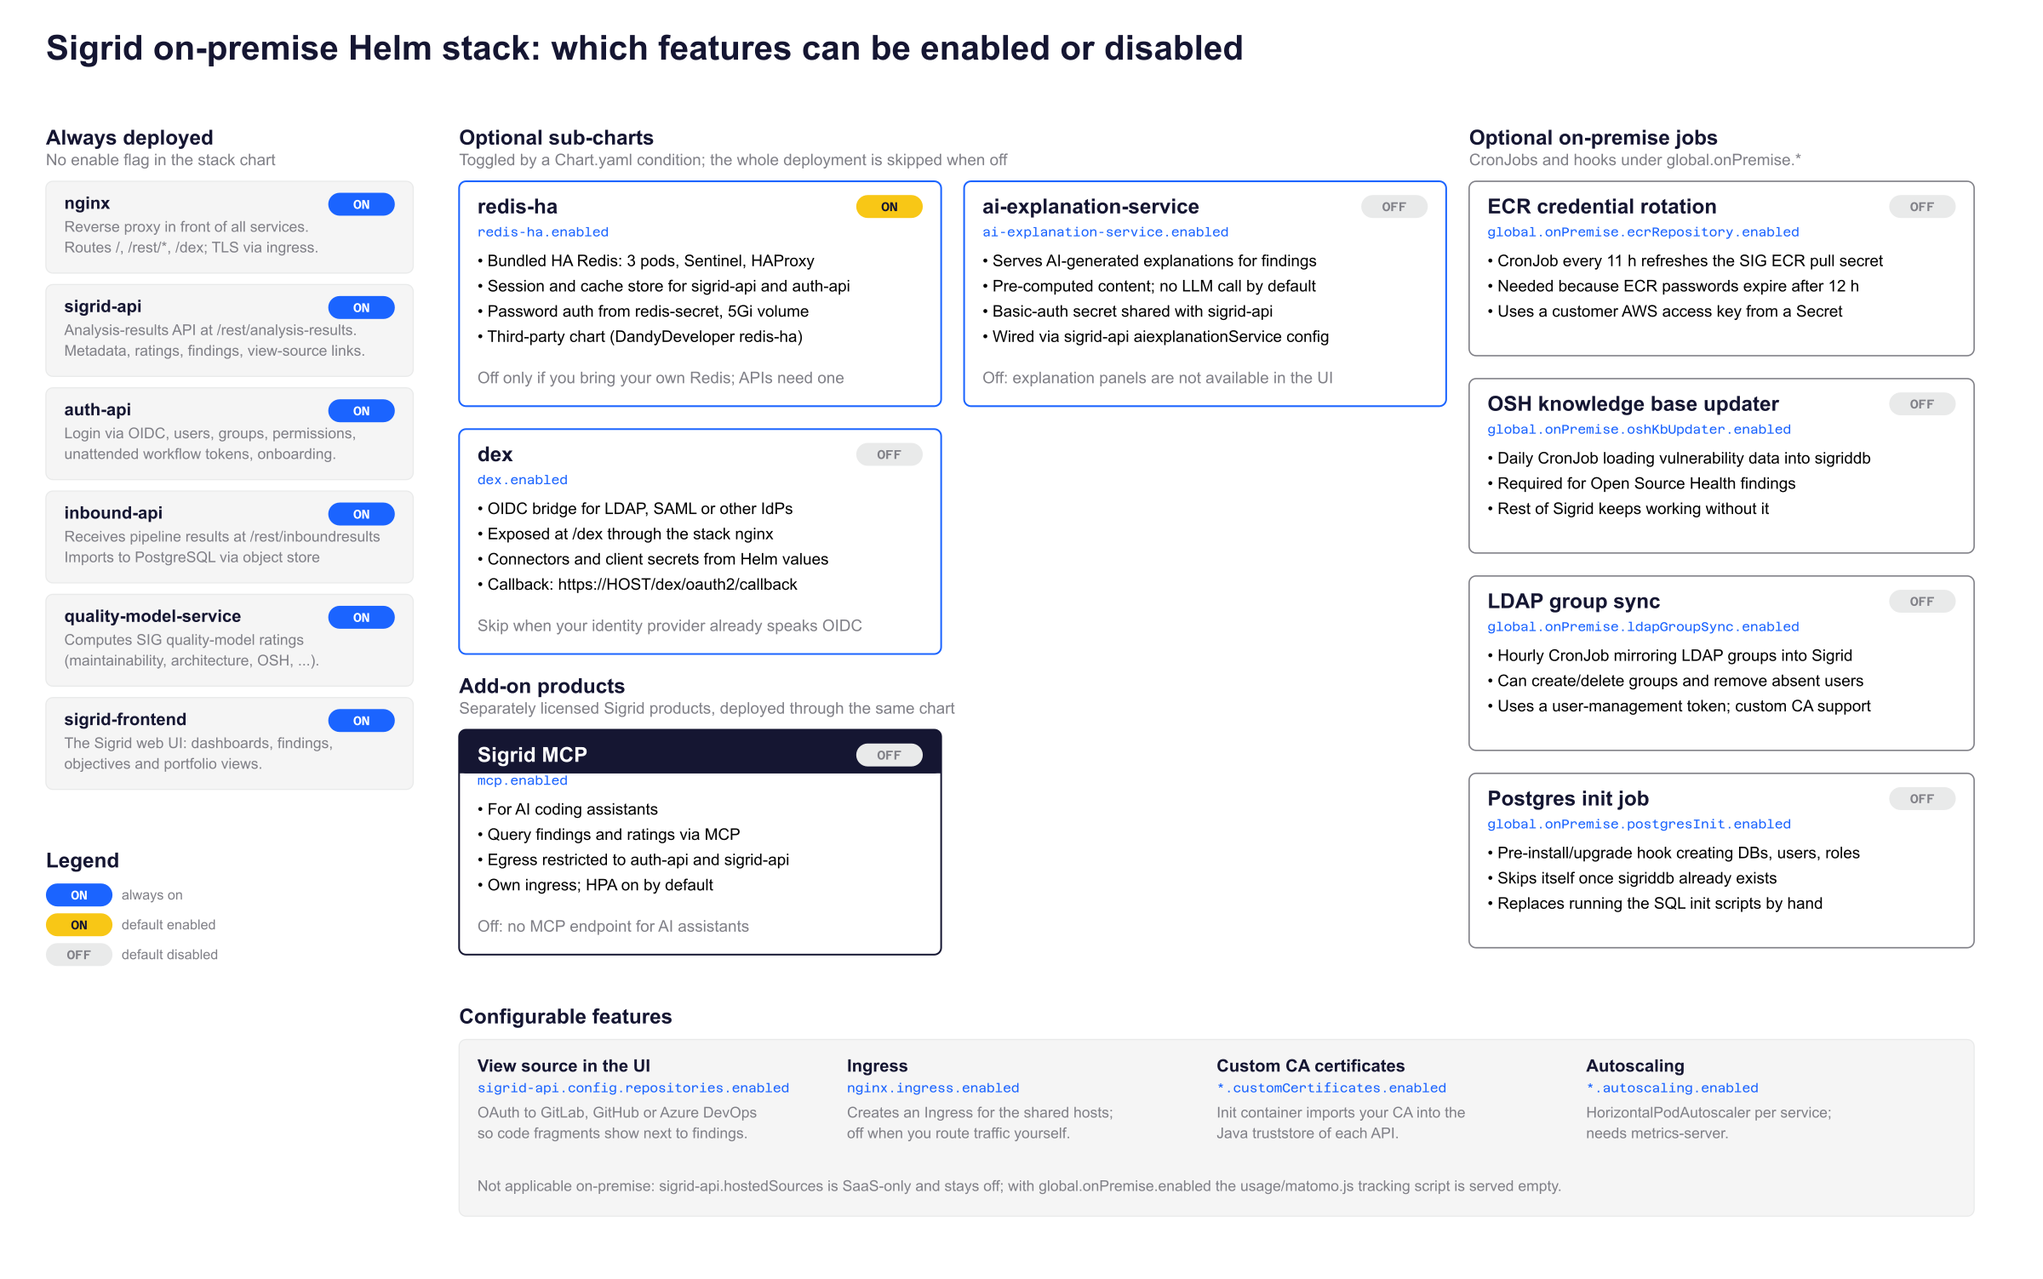
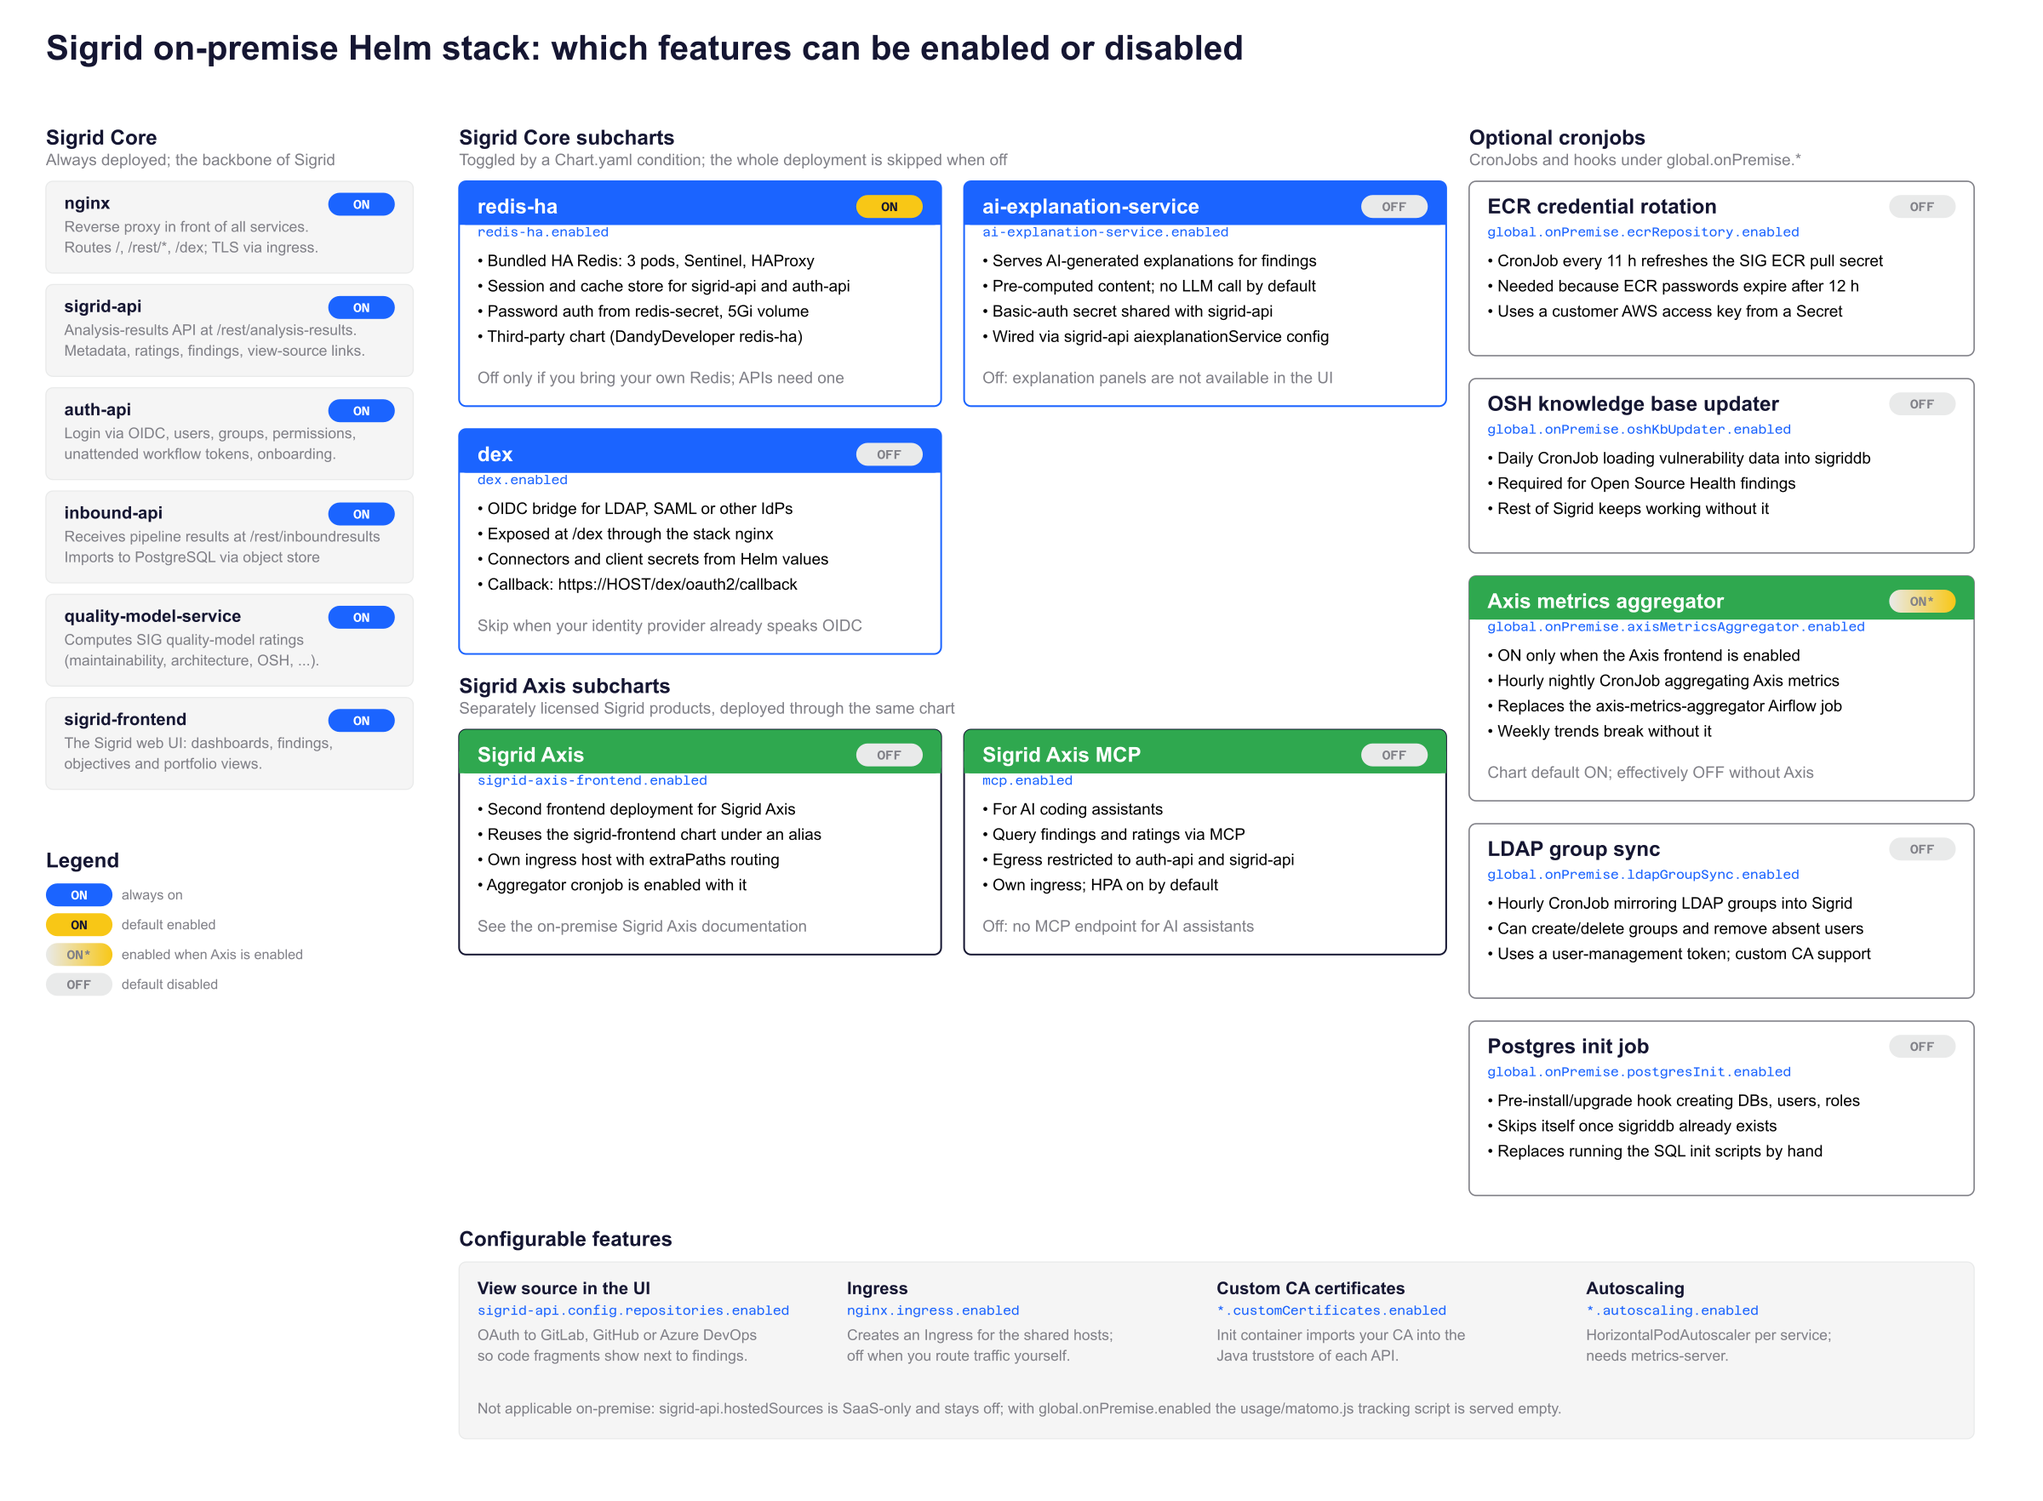
Add axis onprem documentation (#1047)
* Create onpremise-axis.md

* Update menu.html

* Add release notes

* Add ingress improvements

* Add required hostname

* Update required containers

* Update diagram with axis

* Use new colours and product matching

diff --git a/docs/_includes/menu.html b/docs/_includes/menu.html
@@ -28,12 +28,13 @@
             <a href="/organization-integration/onpremise-qsm.html" class="page">QSM On-Premise</a>
             <a href="/organization-integration/onpremise-requirements.html" class="page">Infrastructure & Resource Requirements</a>
             <a href="/organization-integration/onpremise-kubernetes.html" class="page">Kubernetes Deployment</a>
-            <a href="/organization-integration/onpremise-osh-knowledgebase-updater.html" class="page subPage">Open Source Health knowledge base updater <em class="kind">job</em></a>
-            <a href="/organization-integration/onpremise-ldap-group-sync.html" class="page subPage">Sigrid LDAP group synchronization <em class="kind">job</em></a>
-            <a href="/organization-integration/onpremise-automated-database-initialization.html" class="page subPage">Automated Database Initialization <em class="kind">job</em></a>
-            <a href="/organization-integration/onpremise-mcp.html" class="page subPage">Sigrid Axis MCP server <em class="kind">service</em></a>
-            <a href="/organization-integration/onpremise-ai-explanations.html" class="page subPage">AI Explanation Service <em class="kind">service</em></a>
             <a href="/organization-integration/onpremise-aws-ecr.html" class="page subPage">Using SIG's Elastic Container Registry</a>
+            <a href="/organization-integration/onpremise-osh-knowledgebase-updater.html" class="page subPage">OSH Knowledge Base Updater <em class="kind">job</em></a>
+            <a href="/organization-integration/onpremise-ldap-group-sync.html" class="page subPage">LDAP Group Synchronization <em class="kind">job</em></a>
+            <a href="/organization-integration/onpremise-automated-database-initialization.html" class="page subPage">Automated Database Initialization <em class="kind">job</em></a>
+            <a href="/organization-integration/onpremise-ai-explanations.html" class="page subPage">AI Explanation Service <em class="kind">service</em></a>
+            <a href="/organization-integration/onpremise-axis.html" class="page subPage">Sigrid Axis <em class="kind">service</em></a>
+            <a href="/organization-integration/onpremise-mcp.html" class="page subPage">Sigrid Axis MCP server <em class="kind">service</em></a>
             <a href="/organization-integration/onpremise-analysis.html" class="page">Analysis Configuration</a>
             <a href="/organization-integration/onpremise-osh-analysis.html" class="page subPage">Using Open Source Health on Sigrid On-Premise</a>
             <a href="/organization-integration/onpremise-operations.html" class="page">Operations</a>

diff --git a/docs/organization-integration/onpremise-axis.md b/docs/organization-integration/onpremise-axis.md
@@ -1,0 +1,119 @@
+# Sigrid Axis for Sigrid On-Premise
+
+This documentation covers on-premise Sigrid. It is not applicable for cloud-based Sigrid.
+{: .attention }
+
+## Prerequisites
+
+- You should have already read the other Sigrid On-Premise documentation, in particular [Kubernetes Deployment](onpremise-kubernetes.md).
+- Sigrid On-Premise is installed and working, using the `sigrid-stack` Helm chart version 1.0.20261012 or later.
+
+## Enabling Sigrid Axis
+
+Sigrid Axis is the product for agentic tooling: AI coding assistants use it to consult and improve your systems using Sigrid's analysis. See [the general Sigrid Axis documentation](../axis/README.md) for what Axis offers and how developers connect their tools. This page covers deploying Axis in your own cluster. Axis is disabled by default in `sigrid-stack`.
+
+Sigrid Axis consists of two components, which are both required:
+
+- The **Axis frontend**, which runs as its own subchart in `sigrid-stack`.
+- The **Axis metrics aggregator**, a cronjob that aggregates all metrics shown in Axis, including its weekly trends. Without it, the metrics in Axis are no longer updated.
+
+The minimal configuration for both components is shown below.
+
+{% raw %}
+```yaml
+global:
+  onPremise:
+    axisMetricsAggregator:
+      image:
+        tag: 1.0.20261012
+
+sigrid-axis-frontend:
+  enabled: true
+  image:
+    repository: softwareimprovementgroup/sigrid-axis/frontend
+    tag: 1.0.20261012
+  ingress:
+    enabled: true
+    className: "nginx"  # Use the same ingress controller as the other Sigrid services
+    annotations: { }  # Specify any ingress controller-specific annotations you need
+    hosts:
+      - host: "axis.example.com"
+        tls:
+          enabled: true
+    extraPaths:
+      - path: /rest  # Transparently reach Sigrid's backend APIs even though the host is different
+        serviceName: my-sigrid-sigrid-stack-nginx  # <release-name>-sigrid-stack-nginx
+```
+{% endraw %}
+
+If you're not pulling `softwareimprovementgroup/sigrid-axis/frontend` and `softwareimprovementgroup/sigrid-axis/metrics-aggregator` directly from our ECR onto your Kubernetes cluster nodes, make sure to pull them from ECR and push them to your local registry for deployment. See [using SIG's Elastic Container Registry](onpremise-aws-ecr.md) for the registry configuration.
+{: .attention }
+
+Sigrid Axis requires its own host name, as in the example above. It cannot be served under a path of your existing Sigrid host, because Axis serves its frontend from `/` of its host.
+{: .attention }
+
+The metrics aggregator is **deployed automatically when the Axis frontend is enabled**. It connects to your PostgreSQL database as the same `import_user` used by the import jobs, reusing the secret from [the import job's PostgreSQL configuration](onpremise-kubernetes.md). Each run aggregates the most recent weeks for all systems, and the current week is re-measured on every run. Results are stored in the `axis_metrics` schema of your `sigriddb` database.
+
+## Logging in to Sigrid Axis
+
+Sigrid Axis uses the same identity provider and OpenID Connect client as Sigrid, as configured in [Kubernetes Deployment](onpremise-kubernetes.md). Because Axis requires its own hostname, it needs its own login callback. Register the Axis host as an additional registration in the `auth-api` configuration:
+
+{% raw %}
+```yaml
+auth-api:
+  config:
+    oauth2:
+      registration:
+        sigridmfa:
+          additionalRegistrations:
+            sigrid-axis: "axis.example.com"
+```
+{% endraw %}
+
+The label (`sigrid-axis` in the example) can be anything you like. Each host gets its own registration named `sigridmfa-` followed by the host name with dots replaced by dashes. This makes sure users return to Sigrid Axis after logging in, instead of to Sigrid Core.
+
+You also need to allow the Axis callback URL as an additional redirect URI of the OpenID Connect client in your identity provider. The callback URL follows the pattern `https://<host>/rest/auth/login/oauth2/code/sigridmfa-<host with dots replaced by dashes>`. For the example above, this is `https://axis.example.com/rest/auth/login/oauth2/code/sigridmfa-axis-example-com`.
+{: .attention }
+
+## Metrics aggregator settings
+
+The defaults are suitable for most deployments. The following settings can be overridden in the `global.onPremise.axisMetricsAggregator` section:
+
+{% raw %}
+```yaml
+global:
+  onPremise:
+    axisMetricsAggregator:
+      cronJobschedule: "0 2-5 * * *" # hourly between 02:00 and 05:00 UTC by default
+      activeDeadlineSeconds: 3600 # maximum duration of a single run in seconds
+      resources:
+        requests:
+          cpu: 1000m
+          memory: 4Gi
+        limits:
+          memory: 4Gi
+```
+{% endraw %}
+
+- `cronJobschedule` — the cron format schedule of the job. The default `"0 2-5 * * *"` triggers hourly during the night, which spreads the aggregation over a quiet period. A run that is skipped because the previous one is still active is picked up by the next trigger.
+- `activeDeadlineSeconds` — how long a single run may take before Kubernetes cancels it. The default allows one hour.
+- `resources` — the container's CPU request and memory. The default of 4Gi memory suffices for most deployments; lower it only if your node pool cannot accommodate it.
+
+## Temporarily disabling the metrics aggregator
+
+Should you run into issues, for example with the container or the cronjob settings, you can temporarily disable the aggregator without disabling Axis itself. This is only intended for troubleshooting; re-enable the aggregator once the issue is resolved:
+
+{% raw %}
+```yaml
+global:
+  onPremise:
+    axisMetricsAggregator:
+      enabled: false
+```
+{% endraw %}
+
+The aggregator then stops running, and Axis will not receive updated metrics until it is enabled again. Disabling it does not remove previously aggregated data.
+
+## Contact and support
+
+Feel free to contact [SIG's support team](mailto:support@softwareimprovementgroup.com) for any questions or issues you may have after reading this documentation or when using Sigrid.

diff --git a/docs/organization-integration/onpremise-kubernetes.md b/docs/organization-integration/onpremise-kubernetes.md
@@ -71,17 +71,20 @@ sigrid-api:
 
 Sigrid On-Premise needs access to the following images published on SIG's private AWS ECR registry:
 
-- `softwareimprovementgroup/ai-explanation-service`
-- `softwareimprovementgroup/auth-api-db-migration`
+- `softwareimprovementgroup/ai-explanation-service` (optional, required for AI explanations)
 - `softwareimprovementgroup/auth-api`
+- `softwareimprovementgroup/auth-api-db-migration`
+- `softwareimprovementgroup/inbound-api`
+- `softwareimprovementgroup/osh-kb-updater` (optional, required for Open Source Health)
 - `softwareimprovementgroup/quality-model-service`
-- `softwareimprovementgroup/sigrid-api-db-migration`
 - `softwareimprovementgroup/sigrid-api`
+- `softwareimprovementgroup/sigrid-api-db-migration`
+- `softwareimprovementgroup/sigrid-axis/frontend` (optional, required for Sigrid Axis)
+- `softwareimprovementgroup/sigrid-axis/metrics-aggregator` (optional, required for Sigrid Axis)
 - `softwareimprovementgroup/sigrid-frontend`
+- `softwareimprovementgroup/sigrid-integrations-onprem` (optional, required for LDAP group synchronization and automated database initialization)
 - `softwareimprovementgroup/sigrid-multi-analyzer`
 - `softwareimprovementgroup/sigrid-multi-importer`
-- `softwareimprovementgroup/osh-kb-updater` (required for OSH)
-- `softwareimprovementgroup/sigrid-integrations-onprem` (optional)
 
 In addition, if your deployment is completely air-gapped, please ensure these public images are also published to your internal image registry.
 - `nginxinc/nginx-unprivileged`

diff --git a/docs/organization-integration/runbook-onpremise-installation.md b/docs/organization-integration/runbook-onpremise-installation.md
@@ -29,18 +29,20 @@ If your deployment is entirely air-gapped or you just want to use your own inter
 
 1. Pull all container images required:
    From the AWS ECR registry:
-   - softwareimprovementgroup/ai-explanation-service
+   - softwareimprovementgroup/ai-explanation-service (optional, required for AI explanations)
    - softwareimprovementgroup/auth-api
    - softwareimprovementgroup/auth-api-db-migration
    - softwareimprovementgroup/inbound-api
+   - softwareimprovementgroup/osh-kb-updater (optional, required for Open Source Health)
    - softwareimprovementgroup/quality-model-service
    - softwareimprovementgroup/sigrid-api
    - softwareimprovementgroup/sigrid-api-db-migration
+   - softwareimprovementgroup/sigrid-axis/frontend (optional, required for Sigrid Axis)
+   - softwareimprovementgroup/sigrid-axis/metrics-aggregator (optional, required for Sigrid Axis)
    - softwareimprovementgroup/sigrid-frontend
+   - softwareimprovementgroup/sigrid-integrations-onprem (optional, required for LDAP group synchronization and automated database initialization)
    - softwareimprovementgroup/sigrid-multi-analyzer
    - softwareimprovementgroup/sigrid-multi-importer
-   - softwareimprovementgroup/osh-kb-updater (required for OSH)
-   - softwareimprovementgroup/sigrid-integrations-onprem (optional)
 
    Additionally, the following public images are required:
    - nginxinc/nginx-unprivileged

diff --git a/docs/organization-integration/onpremise-integration.md b/docs/organization-integration/onpremise-integration.md
@@ -85,11 +85,9 @@ Before deploying Sigrid On-Premise, ensure your environment meets the following 
 
 ## Obtaining Sigrid on-premise
 
-The Docker containers that form Sigrid On-Premise are distributed via AWS ECR registry. You will receive an account that allows you to access the container registry. 
+The Docker containers that form Sigrid On-Premise are distributed via AWS ECR registry. You will receive an account that allows you to access the container registry. The full list of containers is described in [Docker image registry](onpremise-kubernetes.md#a-docker-image-registry).
 
-<img src="../images/onpremise-ecr-private-repo.png" width="60%" /> 
-
-As explained above, Sigrid consists of several Docker containers. The container `sigrid-multi-analyzer` runs directly in your development platform's continuous integration pipelines, all other containers are deployed to your Kubernetes cluster. These steps are explained in more detail in the following sections.
+As explained in the [high-level overview](#high-level-overview), Sigrid consists of several Docker containers. The container `sigrid-multi-analyzer` runs directly in your development platform's continuous integration pipelines, all other containers are deployed to your Kubernetes cluster. These steps are explained in more detail in the following sections.
 
 ## Installing and configuring on-premise Sigrid
 

diff --git a/docs/reference/release-notes.md b/docs/reference/release-notes.md
@@ -3,6 +3,10 @@ Sigrid release notes
 
 SIG uses [continuous delivery](https://en.wikipedia.org/wiki/Continuous_delivery), meaning that every change to Sigrid or the underlying analysis is released once our development pipeline has completed. On average, we release somewhere between 10 and 20 times per day. This page therefore doesn't list every single change, since that would quickly lead to an excessively long list of small changes. Instead, this page lists Sigrid and analysis changes that we consider noteworthy for the typical Sigrid user.
 
+### October 12, 2026
+
+- **Sigrid Axis:** Sigrid Axis is now available for on-premise Sigrid. The Axis frontend runs as an optional Helm component, and a cronjob aggregates the metrics shown in Axis. See [Sigrid Axis for Sigrid On-Premise](../organization-integration/onpremise-axis.md) for how to enable it.
+
 ### October 5, 2026
 
 - **Rules management:** Administrators can now exclude a noisy security rule for the entire portfolio, directly from a finding, and review all excluded rules on the new Rules Management page. This saves every team from dealing with the same false positives separately. See [Rules management](../capabilities/portfolio-rules-management.md).

diff --git a/docs/organization-integration/onpremise-release-notes.md b/docs/organization-integration/onpremise-release-notes.md
@@ -15,6 +15,16 @@ For a complete overview of all Sigrid changes, refer to the [general release not
 
 The Helm chart is published under the name `sigrid-stack`.
 
+### Release 1.0.20261012
+
+**New:** [Sigrid Axis](onpremise-axis.md) is now available for on-premise deployments. The Axis frontend is a new optional subchart of `sigrid-stack`, disabled by default. When enabled, it automatically deploys the Axis metrics aggregator cronjob, which aggregates the metrics shown in Axis. The aggregator is required for Axis, but can be temporarily disabled when troubleshooting.
+
+<details markdown="1">
+<summary>Details</summary>
+
+**Actions:** Update the Sigrid Helm chart, Sigrid deployment images, and Sigrid-Multi-Analyzer image. No configuration changes required unless you want to enable Sigrid Axis, in which case follow the [setup instructions](onpremise-axis.md).
+</details>
+
 ### Release 1.0.20260918
 
 **New:** The Sigrid MCP server is now available as an optional `mcp` subchart of `sigrid-stack`, disabled by default. See [Sigrid MCP server for Sigrid On-Premise](onpremise-mcp.md) for how to enable it.

diff --git a/docs/organization-integration/onpremise-aws-ecr.md b/docs/organization-integration/onpremise-aws-ecr.md
@@ -52,14 +52,16 @@ IMAGES=(
   softwareimprovementgroup/auth-api
   softwareimprovementgroup/auth-api-db-migration
   softwareimprovementgroup/inbound-api
+  softwareimprovementgroup/osh-kb-updater
   softwareimprovementgroup/quality-model-service
   softwareimprovementgroup/sigrid-api
   softwareimprovementgroup/sigrid-api-db-migration
+  softwareimprovementgroup/sigrid-axis/frontend
+  softwareimprovementgroup/sigrid-axis/metrics-aggregator
   softwareimprovementgroup/sigrid-frontend
+  softwareimprovementgroup/sigrid-integrations-onprem
   softwareimprovementgroup/sigrid-multi-analyzer
   softwareimprovementgroup/sigrid-multi-importer
-  softwareimprovementgroup/osh-kb-updater
-  softwareimprovementgroup/sigrid-integrations-onprem
 )
 for IMAGE in "${IMAGES[@]}"; do
   docker pull $SIGRID_DOWNLOAD_REGISTRY/$IMAGE:$VERSION
